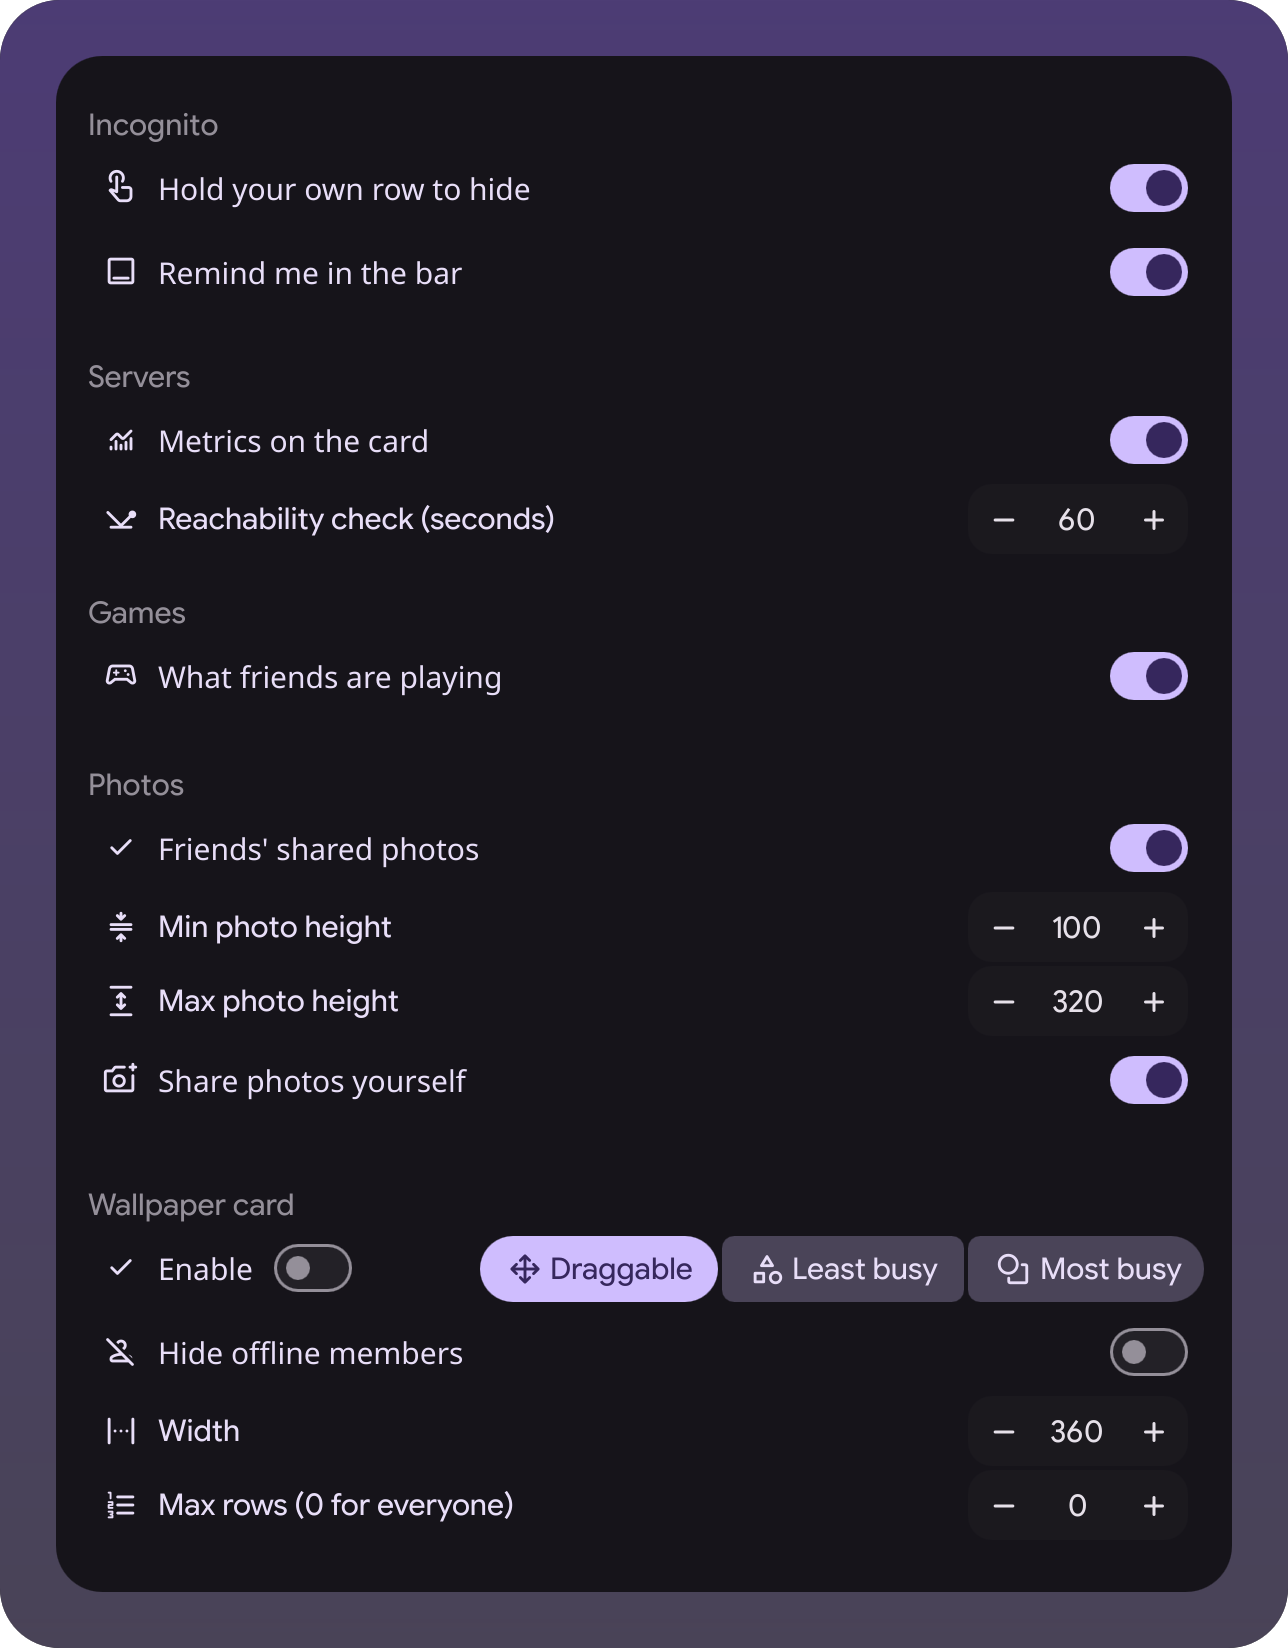
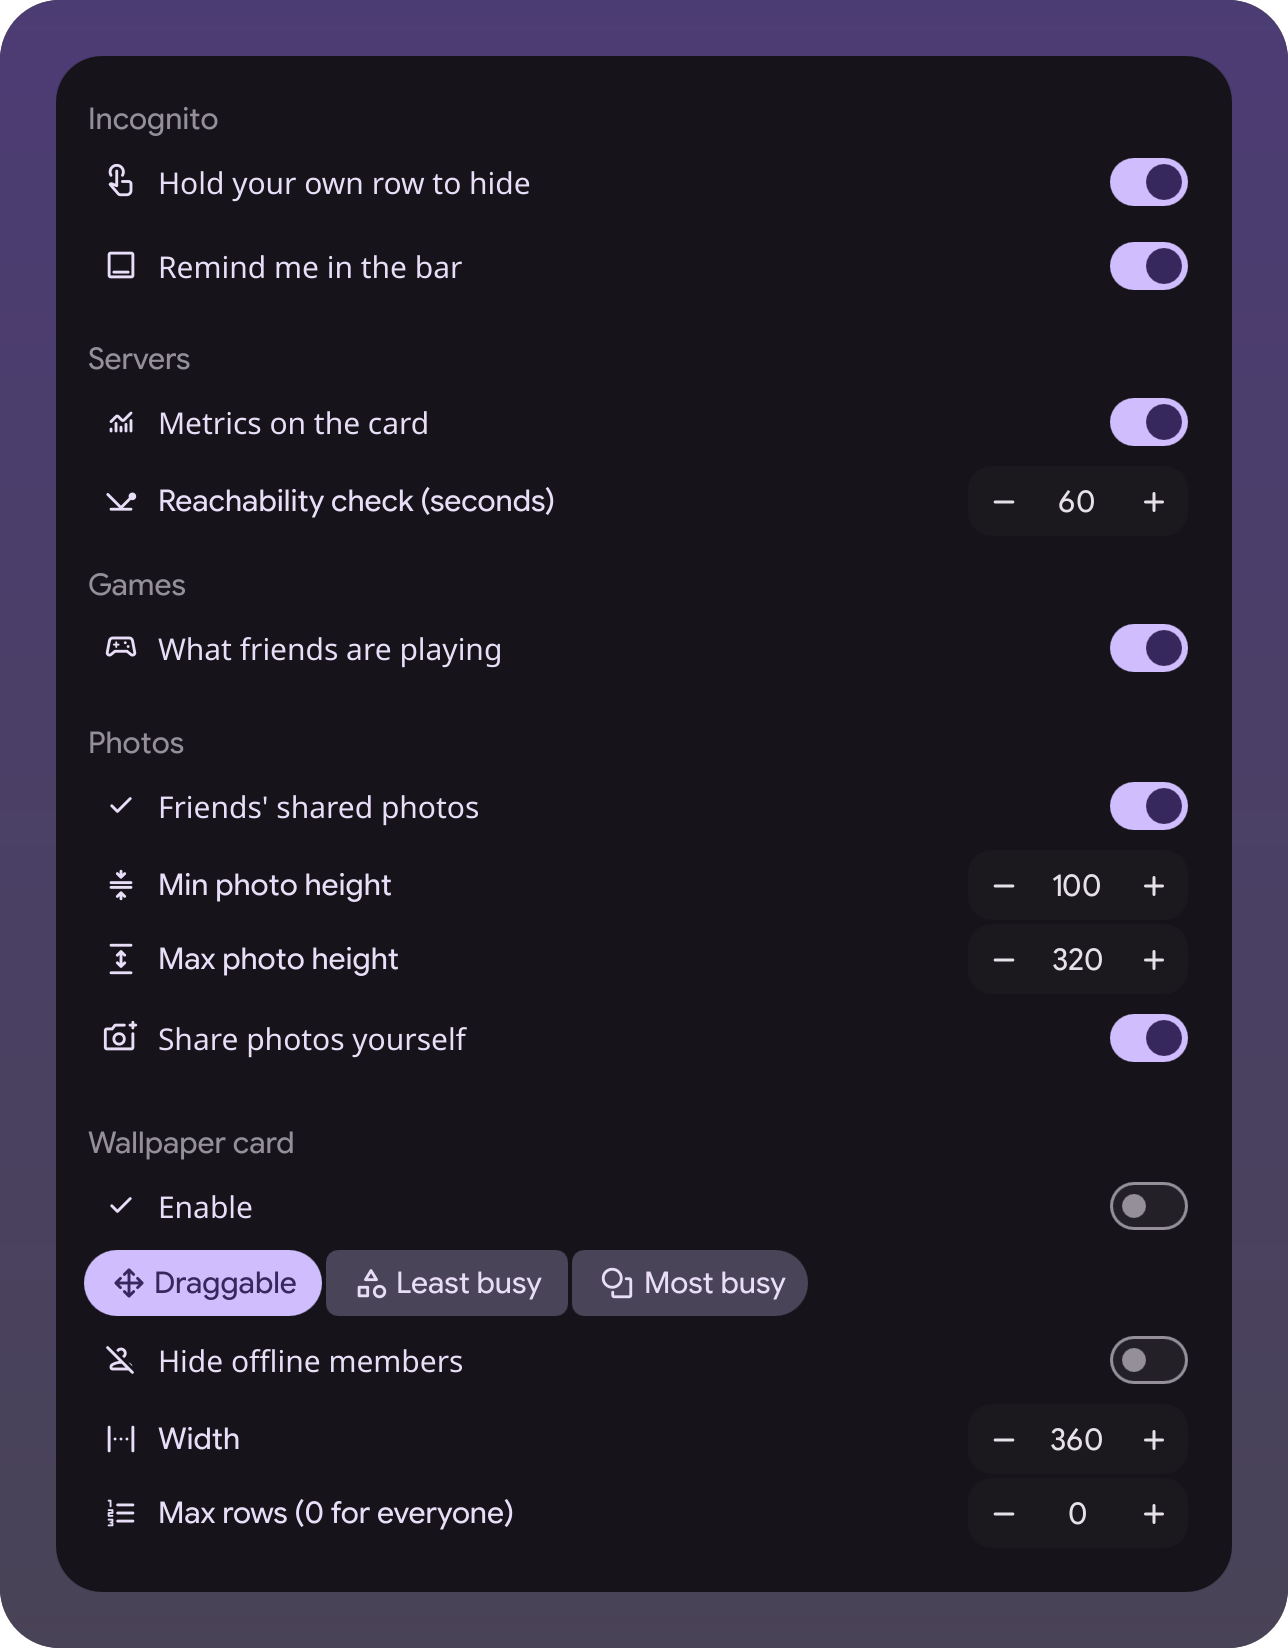
settings: the placement buttons get their own row
Enable kept its switch in the middle of the row, while every other switch in the
page is flush right.

diff --git a/StatusphereSettings.qml b/StatusphereSettings.qml
@@ -139,46 +139,39 @@ ColumnLayout {
     ContentSubsection {
         title: Translation.tr("Wallpaper card")
 
-        ConfigRow {
-            Layout.fillWidth: true
+        ConfigSwitch {
+            buttonIcon: "check"
+            text: Translation.tr("Enable")
+            checked: Statusphere.opt("wallpaperCard")
+            onCheckedChanged: setOption("wallpaperCard", checked)
+            StyledToolTip {
+                text: Translation.tr("Same rows as the left sidebar's presence tab, as a card on the wallpaper.\nNeeds the statusphere cli and a registered account")
+            }
+        }
 
-            ConfigSwitch {
-                Layout.fillWidth: false
-                buttonIcon: "check"
-                text: Translation.tr("Enable")
-                checked: Statusphere.opt("wallpaperCard")
-                onCheckedChanged: setOption("wallpaperCard", checked)
-                StyledToolTip {
-                    text: Translation.tr("Same rows as the left sidebar's presence tab, as a card on the wallpaper.\nNeeds the statusphere cli and a registered account")
-                }
+        ConfigSelectionArray { // Its own row, so Enable keeps the axis every other switch is on
+            Layout.fillWidth: true
+            currentValue: Statusphere.opt("wallpaperPlacement")
+            onSelected: newValue => {
+                setOption("wallpaperPlacement", newValue);
             }
-            Item {
-                Layout.fillWidth: true
-            }
-            ConfigSelectionArray {
-                Layout.fillWidth: false
-                currentValue: Statusphere.opt("wallpaperPlacement")
-                onSelected: newValue => {
-                    setOption("wallpaperPlacement", newValue);
-                }
-                options: [
-                    {
-                        displayName: Translation.tr("Draggable"),
-                        icon: "drag_pan",
-                        value: "free"
-                    },
-                    {
-                        displayName: Translation.tr("Least busy"),
-                        icon: "category",
-                        value: "leastBusy"
-                    },
-                    {
-                        displayName: Translation.tr("Most busy"),
-                        icon: "shapes",
-                        value: "mostBusy"
-                    },
-                ]
-            }
+            options: [
+                {
+                    displayName: Translation.tr("Draggable"),
+                    icon: "drag_pan",
+                    value: "free"
+                },
+                {
+                    displayName: Translation.tr("Least busy"),
+                    icon: "category",
+                    value: "leastBusy"
+                },
+                {
+                    displayName: Translation.tr("Most busy"),
+                    icon: "shapes",
+                    value: "mostBusy"
+                },
+            ]
         }
 
         ConfigSwitch {
